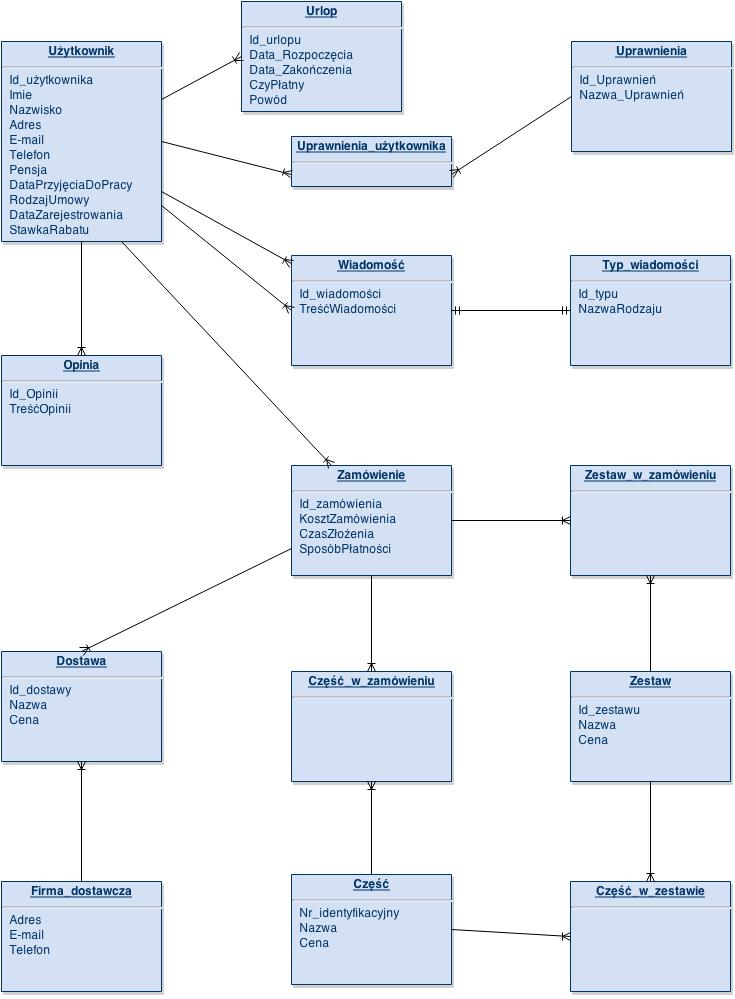
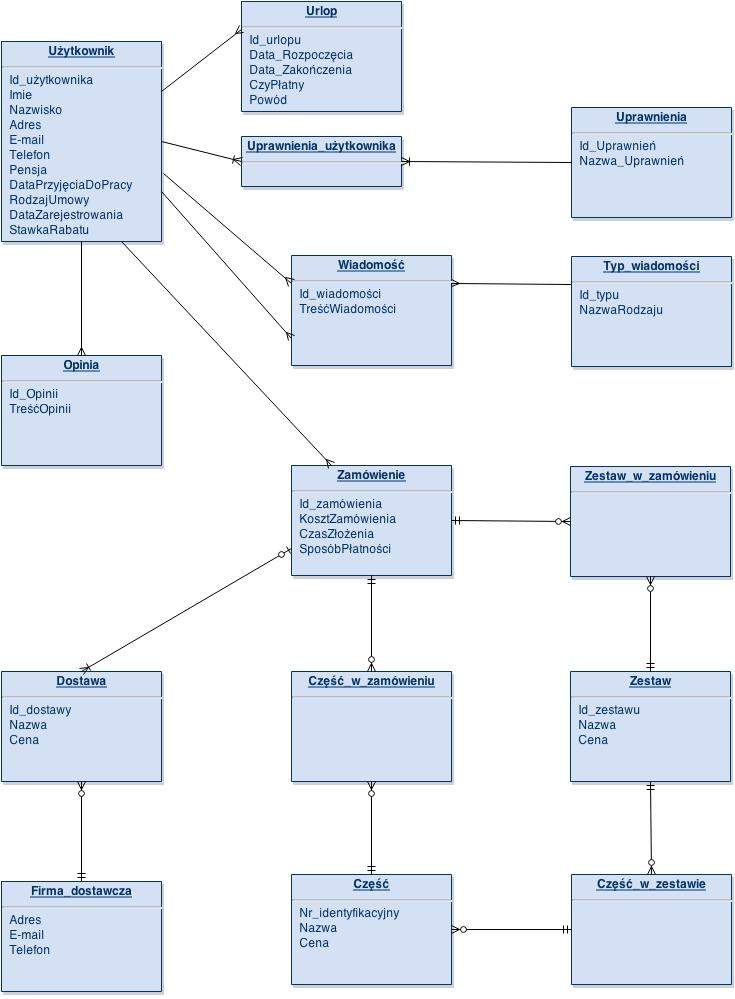
Poprawa diagramu ER

diff --git a/tex/Model_analityczny/Model_bazy_danych.tex b/tex/Model_analityczny/Model_bazy_danych.tex
@@ -161,20 +161,22 @@ Logiczny model bazy danych składa się z następujących tabel:
   	  \item Służy do usprawnienia wymiany informacji
   	\end{enumerate}
   	{\footnotesize
-  	\begin{longtable}{|p{3cm}|p{5cm}|p{2.5cm}|p{2.5cm}|}
+  	\begin{longtable}{|p{3.3cm}|p{5cm}|p{2.6cm}|p{2.5cm}|}
   	\hline
   	\textbf{Nazwa atrybutu} & \textbf{Znaczenie atrybutu} & \textbf{Typ danych} &
   	\textbf{Ograniczenia} \\
   	\hline
-  	Id\_użytkownika1 & FOREIGN KEY REFERENCES Użytkownik.Id\_użytkownika  &
-  	Integer(7,0) & NOT NULL
-  	\\
-  	\hline
-  	Id\_użytkownika2 & FOREIGN KEY REFERENCES Użytkownik.Id\_użytkownika &
-  	Integer(7,0) & NOT NULL
-  	\\
-  	\hline
   	Id\_wiadomości & PRIMARY KEY & Integer(9,0) & NOT NULL, UNIQUE  \\
+  	\hline
+  	Id\_typu & FOREIGN KEY REFERENCES Typ\_Wiadomości & Integer(2,0) & NOT NULL \\
+  	\hline
+  	Id\_użytkownika\_src & FOREIGN KEY REFERENCES Użytkownik.Id\_użytkownika  &
+  	Integer(7,0) & NOT NULL
+  	\\
+  	\hline
+  	Id\_użytkownika\_dest & FOREIGN KEY REFERENCES Użytkownik.Id\_użytkownika &
+  	Integer(7,0) & NOT NULL
+  	\\
   	\hline
   	Treść\_wiadomości & Wiadomość przekazywana między użytkownikami &
   	VARCHAR2(500) & -
@@ -192,10 +194,6 @@ Logiczny model bazy danych składa się z następujących tabel:
   	\hline
   	\textbf{Nazwa atrybutu} & \textbf{Znaczenie atrybutu} & \textbf{Typ danych} &
   	\textbf{Ograniczenia} \\
-  	\hline
-  	Id\_wiadomości & FOREIGN KEY REFERENCES Wiadomość.Id\_wiadomości  &
-  	Integer(9,0) & NOT NULL
-  	\\
   	\hline
   	Id\_typu & PRIMARY KEY & Integer(2,0) & NOT NULL, UNIQUE  \\
   	\hline
